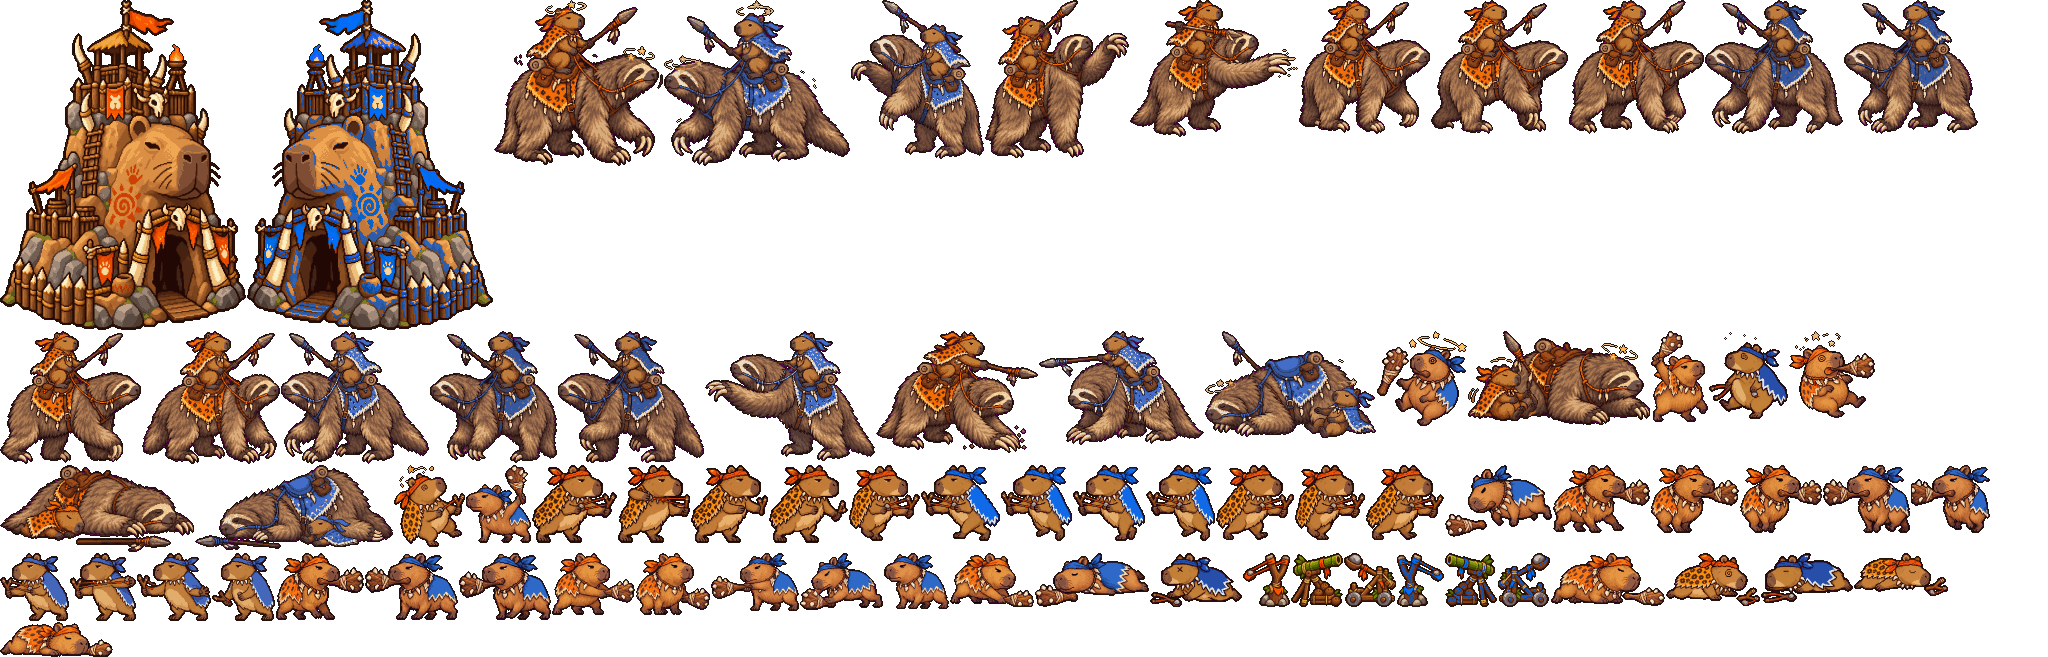
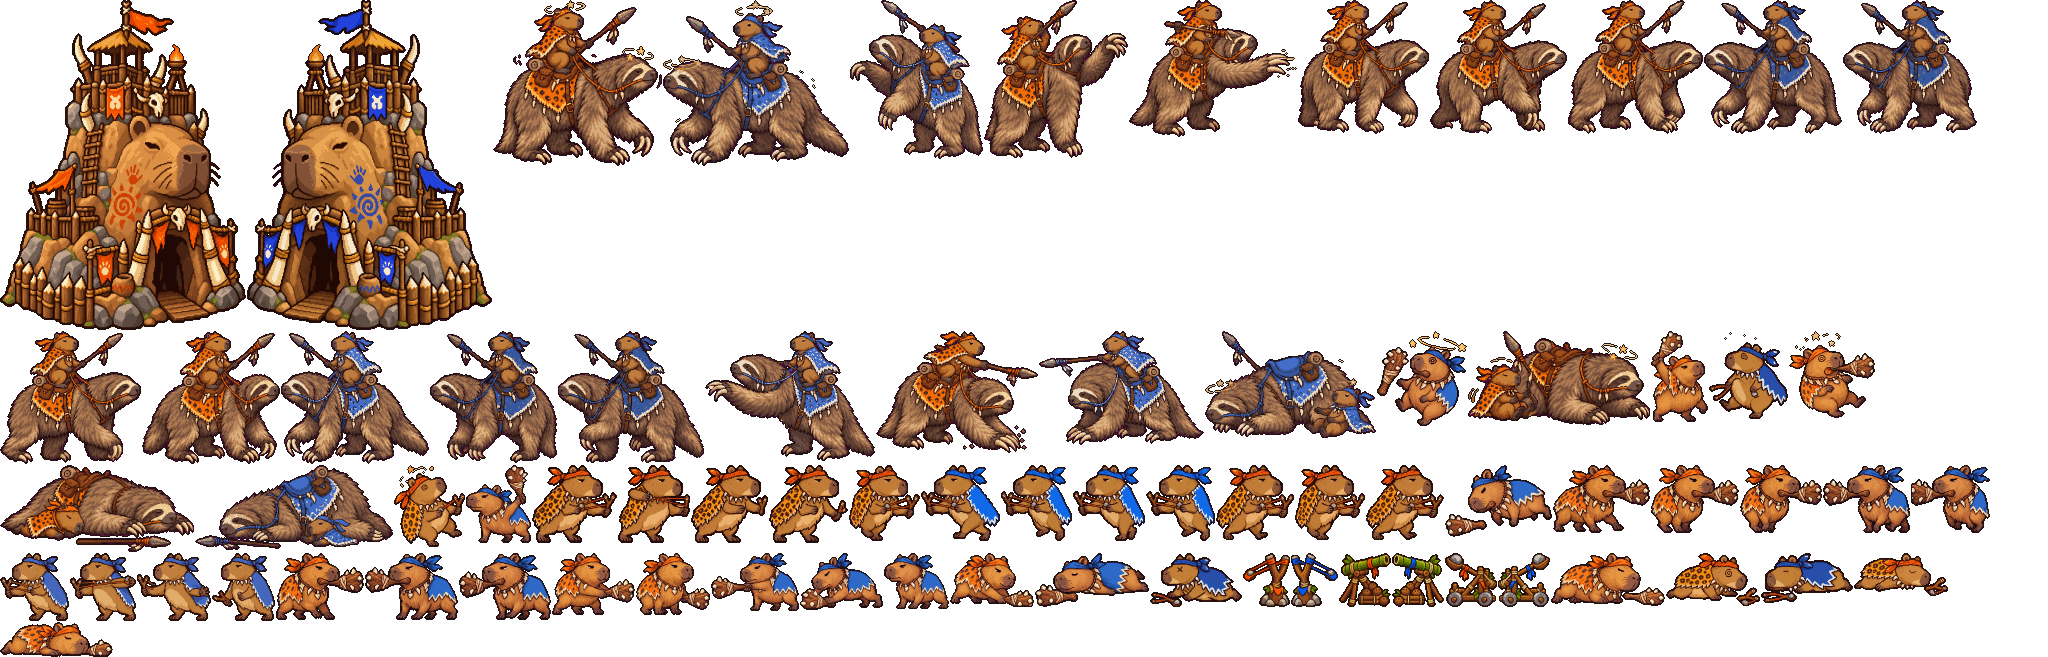
Era medieval com arte e animações, clã do pântano com base e torres próprias

Changed region(s): [[0.25, 0.0, 0.9688, 0.2435], [0.125, 0.0, 0.25, 0.4871], [0.625, 0.8219, 0.75, 0.9437]]

diff --git a/src/render.js b/src/render.js
@@ -4,33 +4,44 @@ import {
 } from './data.js';
 import { ATTACK, WALK, canEvolve, DYING_TIME } from './battle.js';
 
-// Sprites: um atlas por era (por enquanto só a era 1) + versão branca pro piscar de dano.
-const atlas = new Image(), bg = new Image();
-atlas.src = 'assets/era1.png';
-bg.src = 'assets/bg1.webp';
-let FRAMES = {}, white = null;
-export const ready = Promise.all([
-  fetch('assets/era1.json').then((r) => r.json()).then((f) => { FRAMES = f; }),
-  atlas.decode(),
-  bg.decode(),
-]).then(() => {
-  white = document.createElement('canvas');
-  white.width = atlas.width; white.height = atlas.height;
-  const w = white.getContext('2d');
-  w.drawImage(atlas, 0, 0);
-  w.globalCompositeOperation = 'source-in';
-  w.fillStyle = '#fff'; w.fillRect(0, 0, white.width, white.height);
-});
+// Sprites: um atlas por era que já tem arte + versão branca de cada um pro piscar de dano.
+const atlases = [], whites = [], bgs = [];
+let FRAMES = {};
+// cada era com arte tem assets/eraN.png + eraN.json (quadros) e assets/bgN.webp (fundo)
+export const ready = Promise.all(ERAS.map(async (era, k) => {
+  if (!era.art) return;
+  const img = new Image(), bg = new Image();
+  img.src = `assets/era${k + 1}.png`;
+  bg.src = `assets/bg${k + 1}.webp`;
+  const [frames] = await Promise.all([fetch(`assets/era${k + 1}.json`).then((r) => r.json()), img.decode(), bg.decode()]);
+  for (const n in frames) FRAMES[n] = [...frames[n], k];
+  const w = document.createElement('canvas');
+  w.width = img.width; w.height = img.height;
+  const c = w.getContext('2d');
+  c.drawImage(img, 0, 0);
+  c.globalCompositeOperation = 'source-in';
+  c.fillStyle = '#fff'; c.fillRect(0, 0, w.width, w.height);
+  atlases[k] = img; whites[k] = w; bgs[k] = bg;
+}));
+
+// a era com arte mais recente que não passa de `era` (as que ainda não têm arte usam a anterior)
+const artEra = (era, list) => { while (era > 0 && !list[era]) era--; return era; };
 
 // Desenha o quadro com o pé em (cx, by); o x de referência (âncora) do quadro fica em cx. Retorna a altura, ou 0 se não existe.
 function draw1(ctx, f, cx, by, flash) {
   if (!f) return 0;
   const w = f[2] / RES, h = f[3] / RES;
   const x = Math.round((cx - f[4] / RES) * RES) / RES, y = Math.round((by - h) * RES) / RES;
-  ctx.drawImage(flash ? white : atlas, f[0], f[1], f[2], f[3], x, y, w, h);
+  ctx.drawImage(atlases[f[5]], f[0], f[1], f[2], f[3], x, y, w, h);
+  if (flash) { // brilho branco por cima, sem apagar o desenho (flash = intensidade, 0 a 1)
+    const a = ctx.globalAlpha;
+    ctx.globalAlpha = a * flash;
+    ctx.drawImage(whites[f[5]], f[0], f[1], f[2], f[3], x, y, w, h);
+    ctx.globalAlpha = a;
+  }
   return h;
 }
-const sprite = (ctx, name, s, cx, by, flash = false) => draw1(ctx, name && FRAMES[s ? name + '_inimigo' : name], cx, by, flash);
+const sprite = (ctx, name, s, cx, by, flash = 0) => draw1(ctx, name && FRAMES[s ? name + '_inimigo' : name], cx, by, flash);
 
 // quadro de animação de um personagem (cache dos nomes pra não montar string todo frame)
 const keys = {};
@@ -61,8 +72,8 @@ export const TOGGLE_BTN = { x: 584, y: 6, w: 52, h: 28 };
 export const MENU_BTNS = DIFFICULTIES.map((_, i) => ({ x: W / 2 - 80, y: 130 + i * 36, w: 160, h: 28 }));
 
 // fundo: a imagem cobre o campo inteiro (WORLD), por frame é só 1 drawImage
-function drawBg(ctx, cam) {
-  const k = bg.width / WORLD;
+function drawBg(ctx, cam, era) {
+  const bg = bgs[artEra(era, bgs)], k = bg.width / WORLD;
   ctx.drawImage(bg, cam * k, 0, W * k, bg.height, 0, 0, W, H);
 }
 
@@ -75,7 +86,7 @@ const hpBar = (ctx, x, y, w, frac, color) => {
 export function draw(ctx, g, ui) {
   ctx.setTransform(RES, 0, 0, RES, 0, 0);
   const cam = Math.round(ui.cam);
-  drawBg(ctx, cam);
+  drawBg(ctx, cam, g.sides[0].era);
 
   for (let s = 0; s < 2; s++) drawBase(ctx, g, s, cam, ui);
 
@@ -134,7 +145,7 @@ function drawUnit(ctx, g, u, s, cam) {
     else if (u.cd < 0.12) { anim = 'attack'; i = 1; }
     else if (u.cd < 0.3) { anim = 'attack'; i = 0; }
   }
-  let h = def.sprite ? draw1(ctx, frame(def.sprite, s, anim, i), cx, by, u.hitT > 0) : 0;
+  let h = def.sprite ? draw1(ctx, frame(def.sprite, s, anim, i), cx, by, u.hitT > 0 ? 0.55 : 0) : 0;
   if (h) h = frame(def.sprite, s, 'walk', 0)[3] / RES; // barra de vida não pula junto com o quadro
   else {
     // era sem arte ainda: quadrado colorido
@@ -168,12 +179,8 @@ function drawSleeping(ctx, u, cam) {
 
 function drawBase(ctx, g, s, cam, ui) {
   const side = g.sides[s], b = side.base, d = side.dir, cx = b.x - cam;
-  const h = sprite(ctx, 'base', s, cx, GROUND + 12);
-  if (b.hitT > 0) {
-    ctx.globalAlpha = 0.35;
-    sprite(ctx, 'base', s, cx, GROUND + 12, true);
-    ctx.globalAlpha = 1;
-  }
+  const base = ERAS[artEra(side.era, atlases)].baseSprite;
+  const h = sprite(ctx, base, s, cx, GROUND + 12, b.hitT > 0 ? 0.25 : 0);
   hpBar(ctx, Math.round(cx - b.w / 2), GROUND + 12 - h - 6, b.w, b.hp / b.maxHp);
 
   const fx = b.x + d * b.w / 2 - cam;
@@ -274,7 +281,7 @@ function overlay(ctx, title, lines) {
 
 export function drawMenu(ctx, ui) {
   ctx.setTransform(RES, 0, 0, RES, 0, 0);
-  drawBg(ctx, 0);
+  drawBg(ctx, 0, 0);
   ctx.fillStyle = 'rgba(0,0,0,0.5)'; ctx.fillRect(0, 0, W, H);
   ctx.textAlign = 'center'; ctx.textBaseline = 'top';
   ctx.fillStyle = '#f2c14e'; ctx.font = '28px monospace';

diff --git a/src/data.js b/src/data.js
@@ -56,7 +56,10 @@ const ERA_INFO = [
     name: 'Era da Lama', units: ['Tacape', 'Estilingue', 'Megatério'], turrets: ['Estilingão', 'Lança-Coco', 'Catapulta'], special: 'Chuva de Cocos',
     sprites: { units: ['tacape', 'estilingue', 'megaterio'], turrets: ['t_estilingao', 't_lancacoco', 't_catapulta'], base: 'base' },
   },
-  { name: 'Medieval',    units: ['Espadachim', 'Arqueira', 'Cavaleira'], turrets: ['Besta', 'Arco 3x', 'Caldeirão'],         special: 'Chuva de Flechas' },
+  {
+    name: 'Medieval', units: ['Espadachim', 'Arqueira', 'Cavaleira'], turrets: ['Besta', 'Arco 3x', 'Caldeirão'], special: 'Chuva de Flechas',
+    sprites: { units: ['espadachim', 'arqueira', 'cavaleira'], turrets: ['t_besta', 't_arco', 't_caldeirao'], base: 'castelo' },
+  },
   { name: 'Navegações',  units: ['Duelista', 'Mosquete', 'Canhoneira'],  turrets: ['Canhão', 'Mosquetes', 'Morteiro'],       special: 'Bombardeio' },
   { name: 'Moderna',     units: ['Soldado', 'Metralha', 'Capitanque'],   turrets: ['Metralha', 'Foguetes', 'Torre 2x'],      special: 'Capiaviões' },
   { name: 'Futuro',      units: ['Sabre', 'Blaster', 'Capimecha'],       turrets: ['Laser', 'Titânio', 'Canhão Íon'],        special: 'Laranja Sagrada' },
@@ -77,6 +80,8 @@ export const ERAS = ERA_INFO.map((info, k) => {
   if (k === ERA_INFO.length - 1) units.push({ ...SUPREMA, type: 3, era: k });
   return {
     name: info.name,
+    art: !!info.sprites, // tem atlas e fundo próprios (assets/eraN.png, bgN.webp)
+    baseSprite: info.sprites?.base,
     baseHp: nice(3000 * p),
     units,
     turrets: TURRET_BASE.map((b, i) => ({ ...b, name: info.turrets[i], sprite: info.sprites?.turrets[i], type: i, era: k, cost: nice(b.cost * c), dmg: nice(b.dmg * p) })),

diff --git a/src/main.js b/src/main.js
@@ -45,8 +45,13 @@ const toGame = (e) => {
 };
 const inside = (b, x, y) => x >= b.x && x < b.x + b.w && y >= b.y && y < b.y + b.h;
 
+// ?era=N no endereço começa a partida com os dois lados já na era N (pra testar a arte de cada era)
+const startEra = Math.max(1, +new URLSearchParams(location.search).get('era') || 1);
+
 function start(diff) {
   g = newGame(diff);
+  for (let i = 1; i < startEra; i++) { evolve(g, 0, true); evolve(g, 1, true); }
+  g.sides[0].gold = g.sides[1].gold = 175 * 3 ** (startEra - 1);
   Object.assign(ui, { cam: 0, paused: false, towers: false, selling: false, newRecord: false, saved: false });
 }
 

diff --git a/PLANEJAMENTO.md b/PLANEJAMENTO.md
@@ -329,7 +329,9 @@ for (const u of myUnits) {
 - [x] Efeitos sonoros e música (gerados no navegador)
 
 ### M3 - Arte das eras 2 a 5
-- [ ] Uma era por vez, reaproveitando o corpo base
+- [x] Era 2 (Medieval): unidades animadas, torres, Castelo de Taquara e fundo, nos dois clãs
+- [ ] Eras 3, 4 e 5
+- [x] Base e torres do Clã do Pântano desenhadas de propósito (sem recolorir)
 - [ ] Capivara Suprema e os 5 especiais
 
 ### M4 - Polimento
